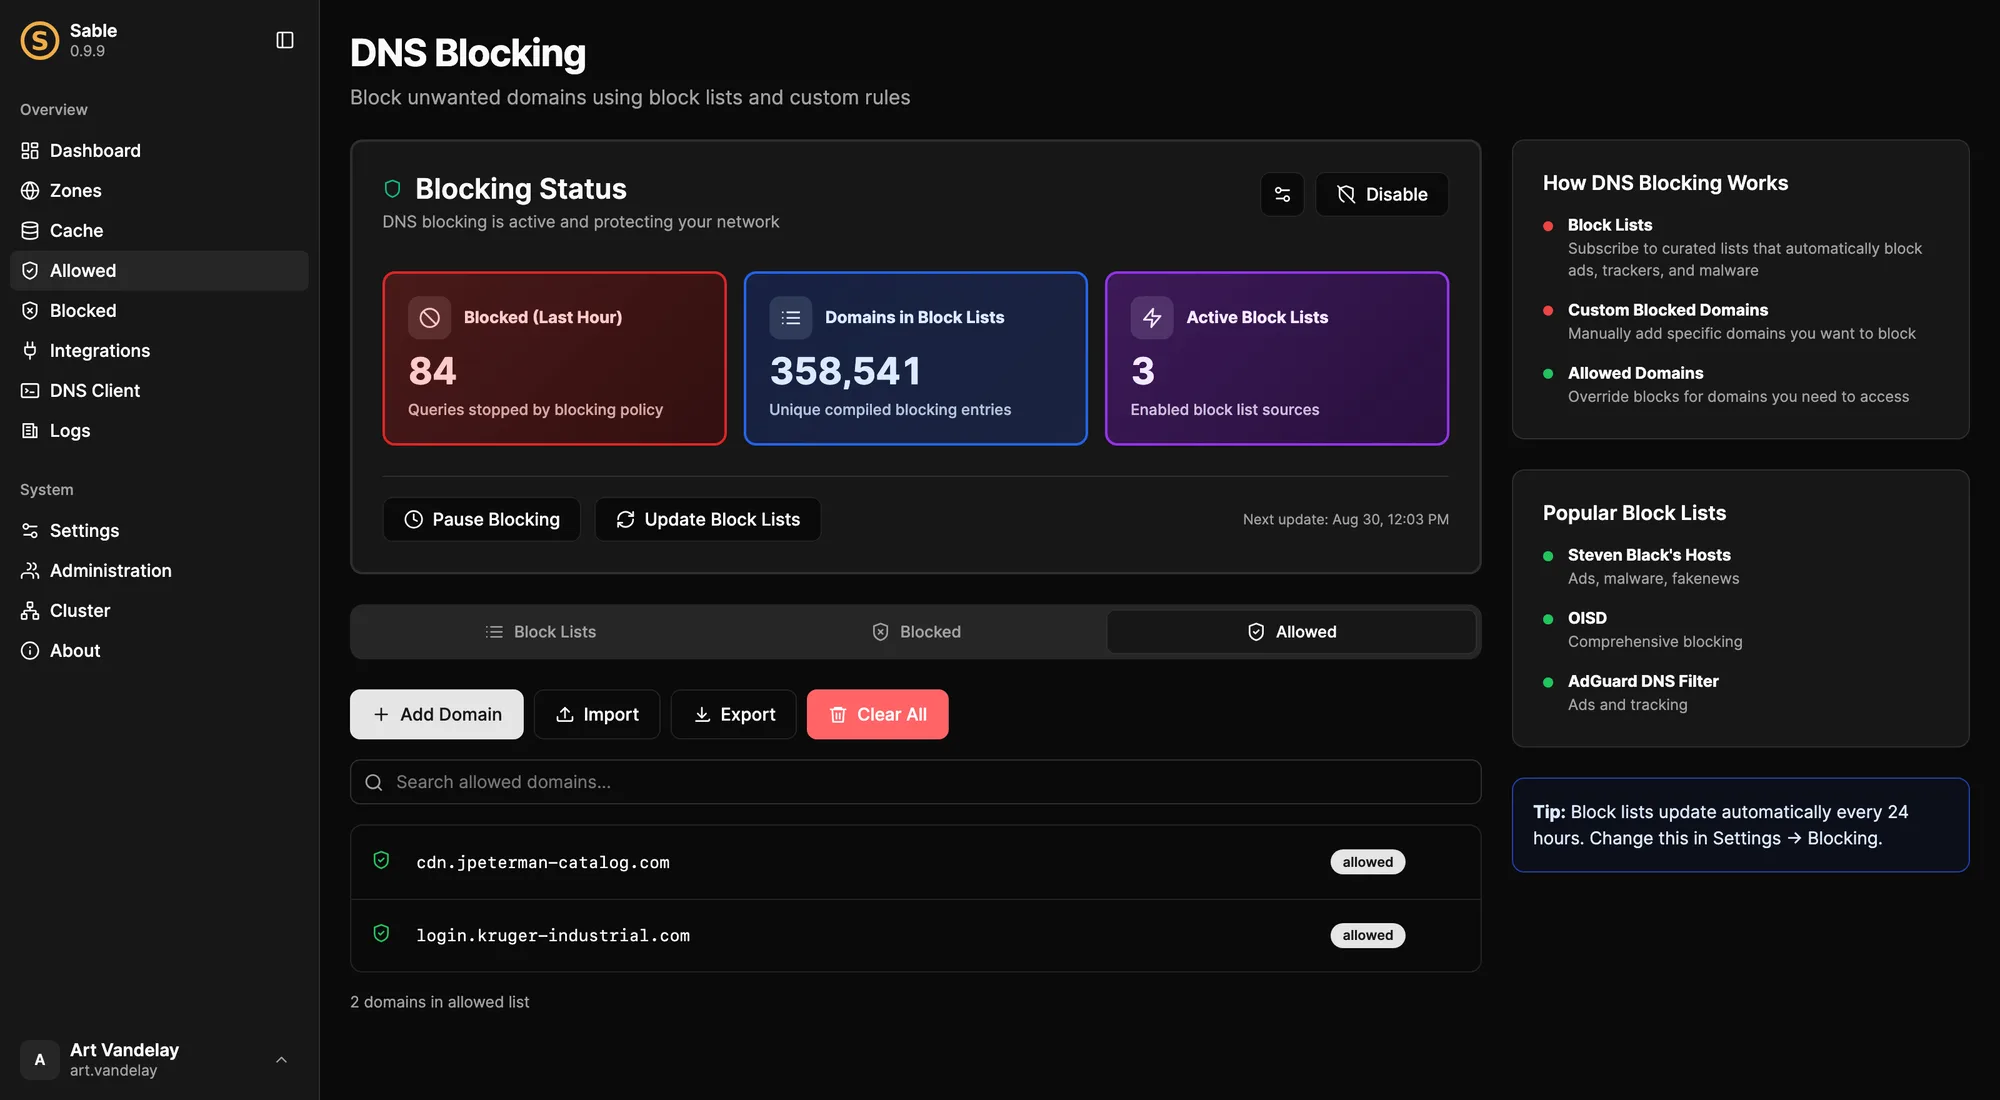
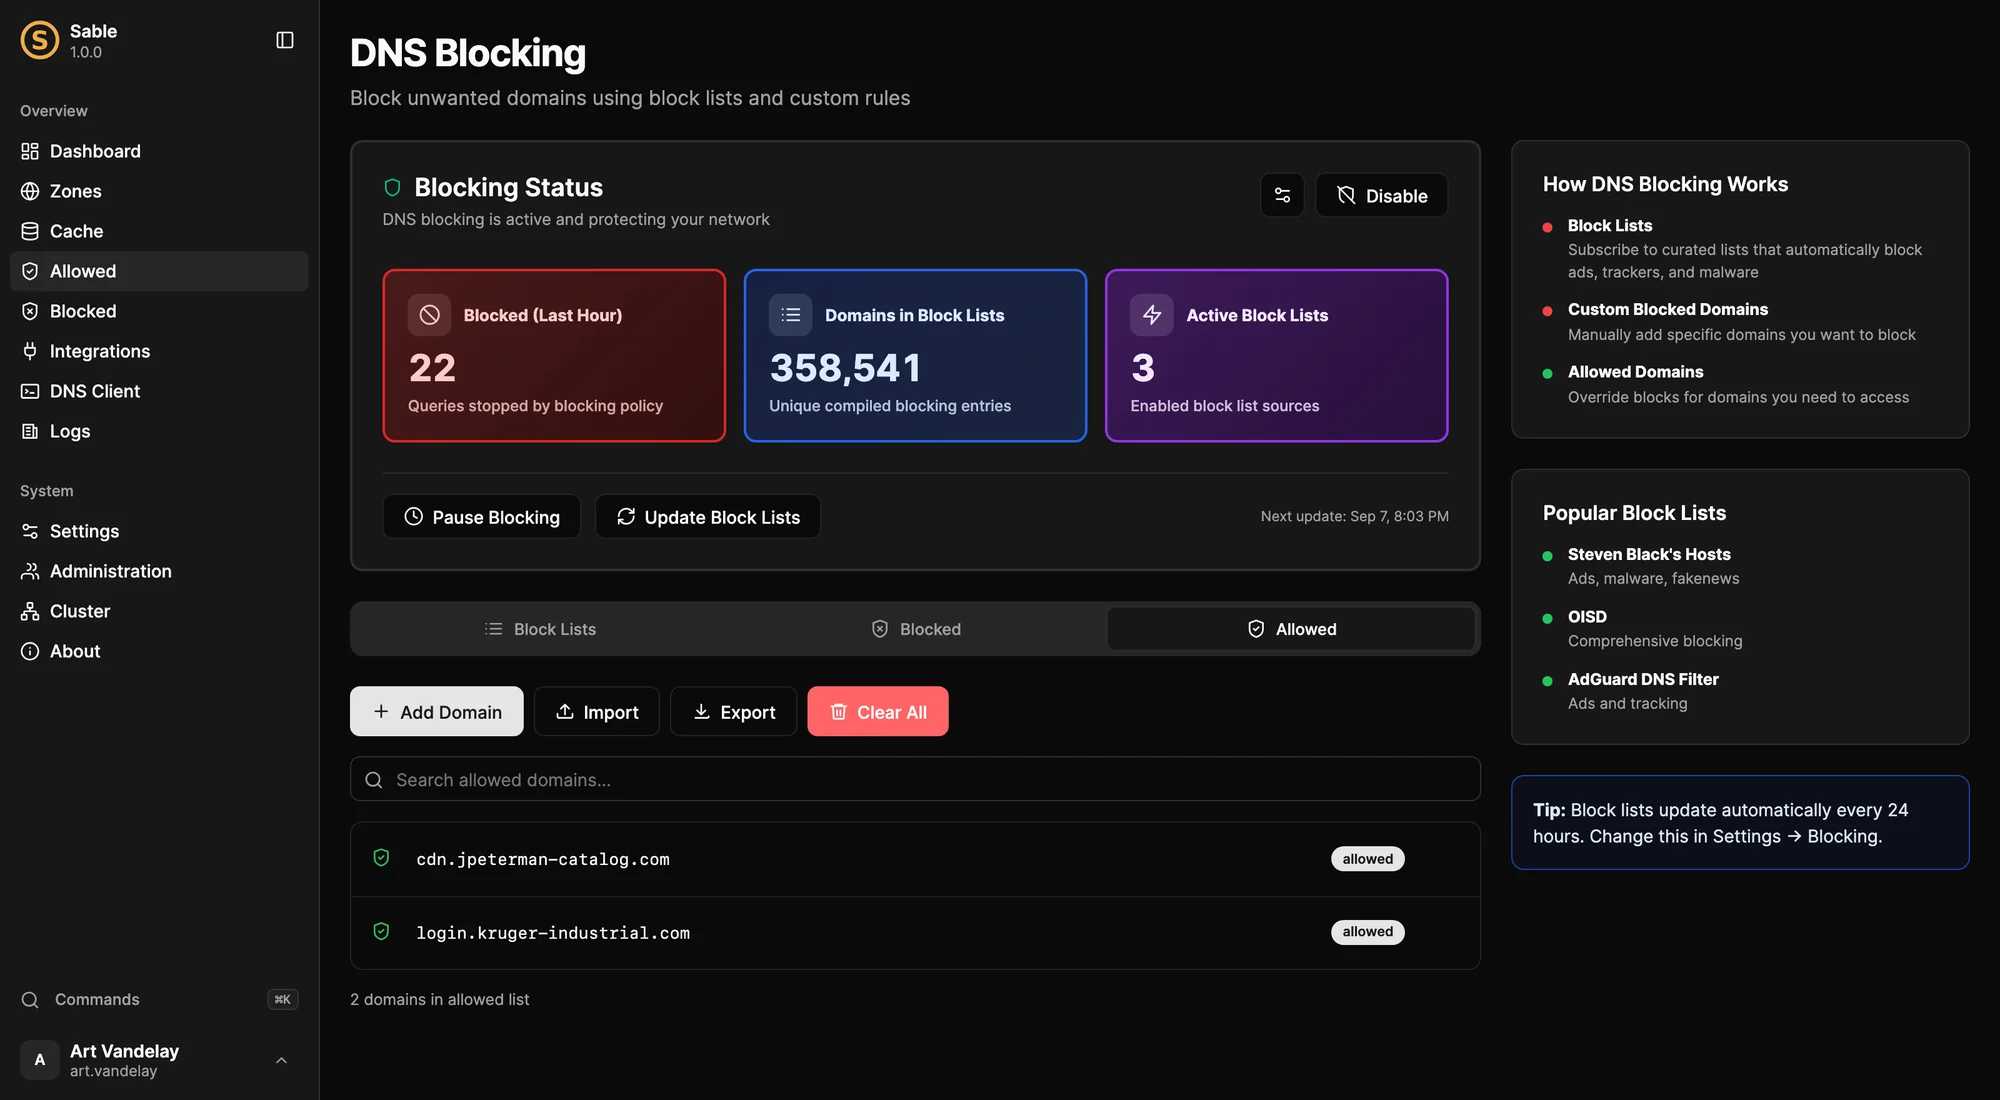
docs: publish the 1.0 handbook with released console screenshots

diff --git a/docs/guides/connect-network.md b/docs/guides/connect-network.md
@@ -11,6 +11,8 @@ Move clients to Sable gradually. First prove that Sable answers from the intende
 
 For home networks, `home.arpa` is a designated private-use naming space. For an organization, use an internal subdomain of a domain you control. Avoid using `.local` for unicast DNS because it is used by multicast DNS. See [RFC 8375](https://www.rfc-editor.org/rfc/rfc8375.html).
 
+Sable 1.0 permits recursive lookups from private and loopback addresses by default. If trusted clients use other address ranges, add their exact addresses or subnets to `[resolver].recursion_clients`; keep public recursion closed. Authoritative answers for hosted zones are separate from recursion access. See [recursion access](../configuration.md#recursive-resolution-and-forwarding) for the complete policy.
+
 ## 1. Test a single device
 
 Manually set one device's DNS server to Sable's address. Open **Logs → Queries** and perform a lookup. Check both the device's IPv4 and IPv6 resolver settings; changing only one does not guarantee all requests use Sable.

diff --git a/docs/guides/getting-started.md b/docs/guides/getting-started.md
@@ -55,7 +55,7 @@ sable query --transport tcp --server 192.0.2.53:53 example.com A
 
 A successful lookup returns an answer and a successful response code. Open **Logs → Queries** and confirm that the client, name, and result match your test. TCP matters too: DNS needs it for replies that do not fit in UDP.
 
-![Sable dashboard with query activity, response breakdowns, and client statistics](../assets/guide-screenshots/dashboard-full.webp "The dashboard gives you an overview after queries start arriving. Use the query log to verify an individual request. Preview capture; the release image will be refreshed for 1.0.0.")
+![Sable dashboard with query activity, response breakdowns, and client statistics](../assets/guide-screenshots/dashboard-full.webp "The dashboard gives you an overview after queries start arriving. Use the query log to verify an individual request. Sable 1.0.0 with demo data.")
 
 ## 4. Connect one test device
 

diff --git a/docs/clustering.md b/docs/clustering.md
@@ -95,7 +95,7 @@ The Cluster page refreshes role, connectivity, applied/current generation,
 generation lag, last contact, and last successful synchronization. It also
 links to each advertised console.
 
-![Cluster status showing member roles, generation lag, and synchronization health](assets/guide-screenshots/cluster-status.webp "Check role, generation lag, and last successful synchronization before maintenance. Preview capture; the final release image will be refreshed for 1.0.0.")
+![Cluster status showing member roles, generation lag, and synchronization health](assets/guide-screenshots/cluster-status.webp "Check role, generation lag, and last successful synchronization before maintenance. Sable 1.0.0 with demo data.")
 
 The DNS client offers enrolled nodes as presets. A node preset queries
 `/dns-query` on that member's advertised HTTPS endpoint and reuses the

diff --git a/docs/guides/sso.md b/docs/guides/sso.md
@@ -6,6 +6,8 @@ Let operators use an existing OpenID Connect identity provider while keeping a l
 
 Prepare an OIDC client at your provider, a stable HTTPS console URL, and an administrator who can still sign in with a password. Decide whether unknown users may be provisioned and what, if anything, they receive by default.
 
+Managing the provider, account provisioning, and role mappings requires both `settings.write` and `users.write`. Use an administrator or a role with both permissions.
+
 ## 1. Connect the provider
 
 Open **Integrations → Single Sign-On**. Enter the issuer URL and client details. The wizard checks issuer discovery before continuing. Copy the exact redirect URL shown by Sable into the provider's client configuration; even a small mismatch can cause rejection.

diff --git a/docs/index.md b/docs/index.md
@@ -18,7 +18,7 @@ Start with one Sable server and one test device. Get your first DNS answer, then
 - **Configuration and operations references** describe exact behavior when you need to go deeper.
 
 > [!NOTE]
-> This documentation is being prepared for Sable 1.0 and tracks the source tree. It is not an announcement that 1.0 has shipped; check your installed version before relying on newly added features. Release downloads remain on GitHub.
+These guides cover Sable 1.0.0. [Download the release](https://github.com/drudge/sable/releases/tag/v1.0.0) or read the [release notes](../CHANGELOG.md).
 
 ## Make DNS work for your network
 

diff --git a/CHANGELOG.md b/CHANGELOG.md
@@ -8,7 +8,7 @@ Create a passphrase-sealed application backup before upgrading and keep
 mixed-version cluster windows short. Cross-version restore and downgrade
 compatibility are not yet a published contract.
 
-## [1.0.0] - Unreleased
+## [1.0.0] - 2026-09-06
 
 The first stable release brings together Sable's authoritative and recursive
 DNS service, cluster administration, query visibility, and operating tools.
